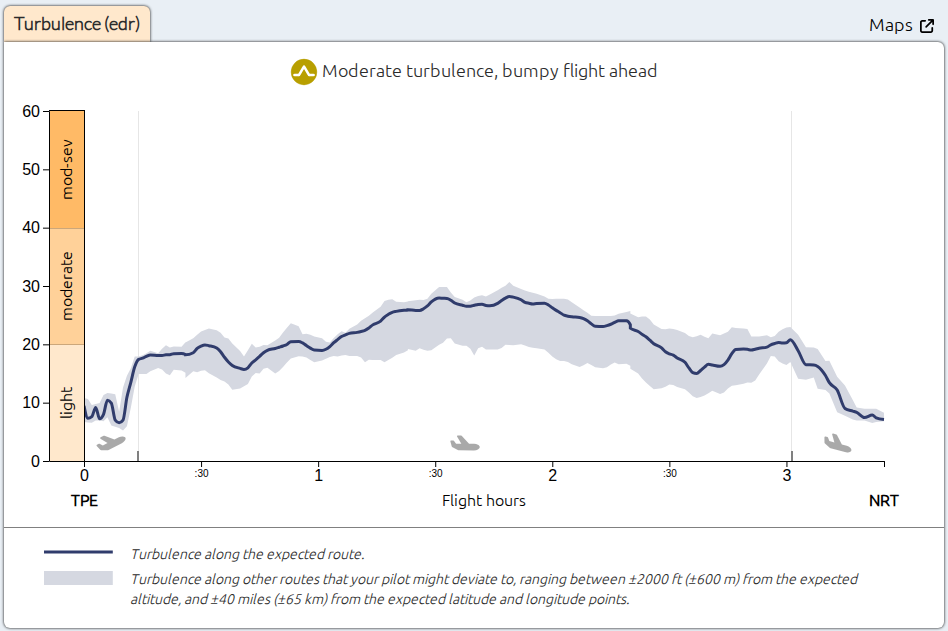
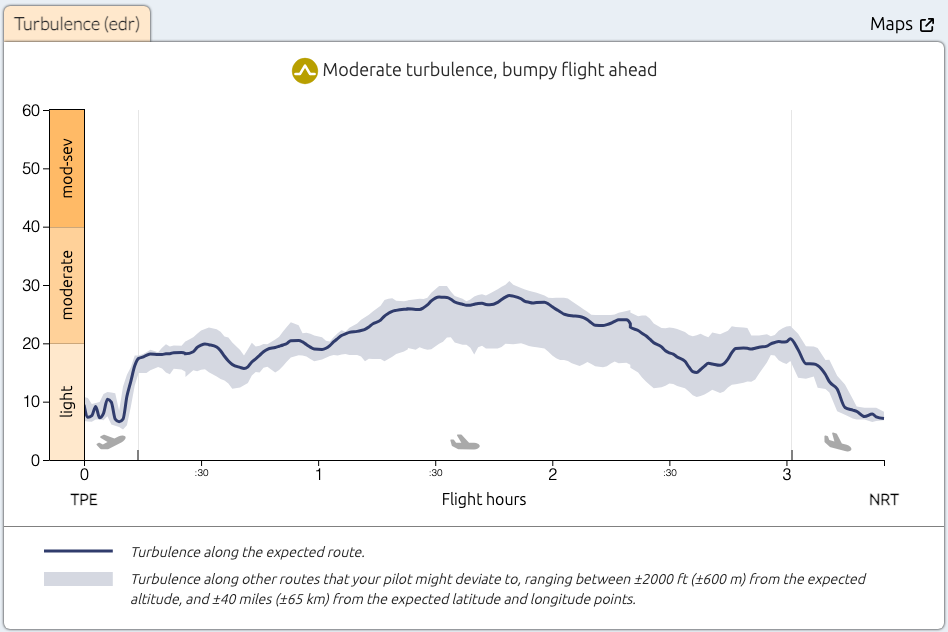
fix: 快速跳過 turbli 410/404 + 改寫成真實 Chrome UA
問題：首輪 workflow 只成功 27/164 張。診斷發現大部分「失敗」是 turbli 主動回
410 (已起飛/超出 48h 預報範圍) 或 404 (無此航班)，每筆要等 25s timeout 才失敗。

修正：
- generate_charts.py 與 server.py 都先檢查 response.status，410/404 立刻跳過
- UA 從 HeadlessChrome 改成標準 Chrome (turbli 廣告腳本會偵測 bot UA，雖不致於擋頁但少惹麻煩)
- 統計分 ✅ ok / ⏭️ skip (預期無資料) / ❌ fail (真錯誤)
- 前端遇到 unavailable=true 顯示「turbli 對這航班沒預報」而非「server 未開」

預期下一輪 workflow：跑得快、成功率反映實際可預報的航班數

diff --git a/app.js b/app.js
@@ -476,8 +476,15 @@ async function loadTurbliChart(forceRefresh) {
     const res = await fetch(apiUrl);
     if (!res.ok) {
       let msg = `HTTP ${res.status}`;
-      try { const j = await res.json(); if (j.error) msg = j.error; } catch (_) {}
-      throw new Error(msg);
+      let unavailable = false;
+      try {
+        const j = await res.json();
+        if (j.error) msg = j.error;
+        if (j.unavailable) unavailable = true;
+      } catch (_) {}
+      const err = new Error(msg);
+      err.unavailable = unavailable;
+      throw err;
     }
     const blob = await res.blob();
     const imgUrl = URL.createObjectURL(blob);
@@ -494,7 +501,19 @@ async function loadTurbliChart(forceRefresh) {
     if (meta) meta.textContent = `${cacheHit ? "✅ 即時快取" : "🆕 剛抓取"} · ${ms} ms · JX-${flight} · ${route} · ${date}`;
     if (refreshBtn) refreshBtn.style.display = "inline-block";
   } catch (err) {
-    box.innerHTML = `<div style="color:#ef4444; font-size:14px; padding:20px 10px;">📭 預存快取暫無此航班，且即時 server 未開<br><span style="font-size:12px; color:#94a3b8;">GitHub Actions 每 6 小時更新，請稍後再試；或從 turbli.com 原站查看</span></div>`;
+    const turbliUrl = `https://turbli.com/${route}/${date}/JX-${flight}/`;
+    if (err.unavailable) {
+      // turbli 主動回 410/404 — 真的沒這航班的預報
+      box.innerHTML = `<div style="color:#64748b; font-size:14px; padding:20px 10px; text-align:center;">
+        🛬 <b>turbli 對這航班沒有預報資料</b><br>
+        <span style="font-size:13px;">${err.message}</span><br>
+        <a href="${turbliUrl}" target="_blank" style="font-size:12px; color:#3c79ff; margin-top:8px; display:inline-block;">↗ 到 turbli.com 確認</a>
+      </div>`;
+    } else {
+      // 真的連不到 server（chartcache miss + 後端離線/超時）
+      box.innerHTML = `<div style="color:#ef4444; font-size:14px; padding:20px 10px;">📭 預存快取暫無此航班，且即時抓取失敗<br>
+        <span style="font-size:12px; color:#94a3b8;">原因：${err.message}<br>GitHub Actions 每 6 小時更新，請稍後再試；或 <a href="${turbliUrl}" target="_blank" style="color:#3c79ff;">到 turbli 原站</a></span></div>`;
+    }
     if (refreshBtn) refreshBtn.style.display = "inline-block";
   }
 }

diff --git a/scripts/generate_charts.py b/scripts/generate_charts.py
@@ -87,11 +87,31 @@ async def fetch_one(browser, flight: str, route: str, date: str) -> tuple[str, b
     out_path = CACHE_DIR / f"{cache_key}.png"
     url = f"https://turbli.com/{route}/{date}/JX-{flight}/"
 
-    context = await browser.new_context(viewport={"width": 1400, "height": 2400})
+    # 偽裝成真實 Chrome (預設 HeadlessChrome UA 會被 turbli 的 Cloudflare 直接擋)
+    context = await browser.new_context(
+        viewport={"width": 1400, "height": 2400},
+        user_agent=(
+            "Mozilla/5.0 (Macintosh; Intel Mac OS X 10_15_7) "
+            "AppleWebKit/537.36 (KHTML, like Gecko) "
+            "Chrome/148.0.0.0 Safari/537.36"
+        ),
+        locale="en-US",
+        extra_http_headers={
+            "Accept-Language": "en-US,en;q=0.9",
+        },
+    )
     page = await context.new_page()
     try:
-        await page.goto(url, wait_until="domcontentloaded", timeout=45000)
-        await page.wait_for_selector("#chartTurbulence svg", timeout=20000)
+        response = await page.goto(url, wait_until="domcontentloaded", timeout=45000)
+        status = response.status if response else 0
+        # turbli 主動回的 HTTP code，快速跳過不浪費 timeout
+        if status == 410:
+            return cache_key, False, "skip:410 已起飛或不在 48h 內"
+        if status == 404:
+            return cache_key, False, "skip:404 turbli 無此航班"
+        if status != 200:
+            return cache_key, False, f"HTTP {status}"
+        await page.wait_for_selector("#chartTurbulence svg", timeout=25000)
         await page.wait_for_timeout(1200)
 
         bbox = await page.evaluate(
@@ -135,12 +155,16 @@ async def worker(name: int, browser, queue: asyncio.Queue, stats: dict):
         t0 = time.time()
         cache_key, ok, msg = await fetch_one(browser, flight, route, date)
         dt = time.time() - t0
-        status = "✅" if ok else "❌"
-        print(f"  [worker {name}] {status} JX-{flight} {route} {date} ({dt:.1f}s) {msg}", flush=True)
         if ok:
             stats["ok"] += 1
+            mark = "✅"
+        elif msg.startswith("skip:"):
+            stats["skip"] += 1
+            mark = "⏭️ "
         else:
             stats["fail"] += 1
+            mark = "❌"
+        print(f"  [w{name}] {mark} JX-{flight} {route} {date} ({dt:.1f}s) {msg}", flush=True)
         queue.task_done()
 
 
@@ -167,7 +191,7 @@ async def main(concurrency: int):
         for date in dates:
             queue.put_nowait((flight, route, date))
 
-    stats = {"ok": 0, "fail": 0}
+    stats = {"ok": 0, "skip": 0, "fail": 0}
     t_start = time.time()
 
     async with async_playwright() as p:
@@ -183,7 +207,7 @@ async def main(concurrency: int):
 
     elapsed = time.time() - t_start
     print(f"\n━━━━━━━━━━━━━━━━━━━━━━━━━━━━━━━━━━━━━━━━━━━━━━━━━━━━━━━━━━━")
-    print(f"完成：✅ {stats['ok']}  ❌ {stats['fail']}  共 {elapsed:.1f} 秒")
+    print(f"完成：✅ {stats['ok']}  ⏭️ {stats['skip']} (已起飛/無資料)  ❌ {stats['fail']} (真錯誤)  共 {elapsed:.1f} 秒")
     print(f"━━━━━━━━━━━━━━━━━━━━━━━━━━━━━━━━━━━━━━━━━━━━━━━━━━━━━━━━━━━")
 
     # 即使有部分失敗也不讓 workflow 整體失敗

diff --git a/server.py b/server.py
@@ -39,6 +39,11 @@ def _valid_date(v: str) -> bool:
     return bool(re.fullmatch(r"\d{4}-\d{2}-\d{2}", v or ""))
 
 
+class TurbliUnavailable(Exception):
+    """turbli 對該航班沒資料（410 已起飛/太遠、404 找不到）"""
+    pass
+
+
 def fetch_turbulence_chart(route: str, date: str, flight: str) -> bytes:
     """開瀏覽器抓圖。回傳 PNG bytes。"""
     url = f"https://turbli.com/{route}/{date}/JX-{flight}/"
@@ -46,11 +51,24 @@ def fetch_turbulence_chart(route: str, date: str, flight: str) -> bytes:
     with sync_playwright() as p:
         browser = p.chromium.launch(headless=True)
         try:
-            page = browser.new_page(viewport={"width": 1400, "height": 2400})
-            page.goto(url, wait_until="domcontentloaded", timeout=60000)
-            # 等湍流圖渲染完成（SVG 出現在 #chartTurbulence 內）
+            context = browser.new_context(
+                viewport={"width": 1400, "height": 2400},
+                user_agent=(
+                    "Mozilla/5.0 (Macintosh; Intel Mac OS X 10_15_7) "
+                    "AppleWebKit/537.36 (KHTML, like Gecko) "
+                    "Chrome/148.0.0.0 Safari/537.36"
+                ),
+            )
+            page = context.new_page()
+            response = page.goto(url, wait_until="domcontentloaded", timeout=60000)
+            status = response.status if response else 0
+            if status == 410:
+                raise TurbliUnavailable("航班已起飛或不在 turbli 的 48 小時預報範圍內")
+            if status == 404:
+                raise TurbliUnavailable("turbli 找不到這個航班，可能不營運或航線錯誤")
+            if status != 200:
+                raise RuntimeError(f"turbli 回 HTTP {status}")
             page.wait_for_selector("#chartTurbulence svg", timeout=30000)
-            # 給 D3/Chart 動畫一點時間
             page.wait_for_timeout(1500)
 
             # 算出涵蓋標題列 + 圖表本體 + 圖例 的截圖區
@@ -138,6 +156,8 @@ def api_chart():
 
     try:
         png = fetch_turbulence_chart(route, date, flight)
+    except TurbliUnavailable as e:
+        return jsonify({"error": str(e), "unavailable": True}), 404
     except Exception as e:
         return jsonify({"error": f"抓取失敗：{e}"}), 502
 